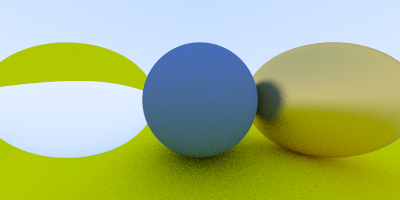
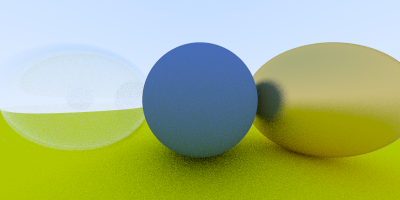
schlick

Changed region(s): [[0.0, 0.54, 0.39, 0.81], [0.0, 0.21, 0.39, 0.45], [0.48, 0.78, 0.51, 0.81]]

diff --git a/dielectric.h b/dielectric.h
@@ -7,11 +7,18 @@ struct Dielectric : public Material
 {
 	typedef r3::Vec3f V;
 
-	Dielectric( float index_of_refraction ) : refr_index( index_of_refraction ) {}
+	Dielectric( float index_of_refraction ) : refr_index( index_of_refraction ), gen( 0 ), dis( 0.0, 1.0 ) {}
 
 	static inline V Reflect( const V& incident, const V& normal )
 	{
 		return incident - 2 * incident.Dot( normal ) * normal;
+	}
+
+	static inline float Schlick( float cosine, float nr )
+	{
+		float r0 = ( 1 - nr ) / ( 1 + nr );
+		r0 = r0 * r0;
+		return r0 + ( 1 - r0 ) * pow( ( 1 - cosine ), 5.0f );
 	}
 
 	static inline bool Refract( const V& incident, const V& normal, float nr, V& refracted )
@@ -23,29 +30,24 @@ struct Dielectric : public Material
 			refracted = nr * ( incident - dt * normal ) - normal * sqrt( discriminant );
 			return true;
 		}
-		else
-		{
-			return false;
-		}
+		return false;
 	}
 
 	bool Scatter( const Ray& incident, const Hit& hit, V& attenuation, Ray& scattered ) const
 	{
 		bool outside = incident.dir.Dot( hit.n ) < 0;
 		V normal = outside ? hit.n : -hit.n;
-		float index_ratio = outside ? 1.0f / refr_index : refr_index;
+		float nr = outside ? 1.0f / refr_index : refr_index;
 		V refr;
-		if ( Refract( incident.dir, normal, index_ratio, refr ) )
+		if ( Refract( incident.dir, normal, nr, refr ) && RandomScalar() > Schlick( -incident.dir.Dot( normal ), nr ) )
 		{
 			scattered = Ray( hit.p, refr );
-			attenuation = V( 1, 1, 1 );
 		}
 		else
 		{
-			V refl = Reflect( incident.dir, normal );
-			scattered = Ray( hit.p, refl );
-			attenuation = V( 1, 0, 0 );
+			scattered = Ray( hit.p, Reflect( incident.dir, normal ) );
 		}
+		attenuation = V( 1, 1, 1 );
 		return true;
 	}
 
@@ -67,7 +69,14 @@ struct Dielectric : public Material
 		std::uniform_real_distribution<> dis;
 	};
 
+	float RandomScalar() const
+	{
+		return dis( gen );
+	}
+
 	mutable RandomPointInUnitSphere rpius;
 
 	float refr_index;
+	mutable std::mt19937 gen;
+	mutable std::uniform_real_distribution<> dis;
 };

diff --git a/rt.cpp b/rt.cpp
@@ -15,6 +15,8 @@
 
 using namespace r3;
 
+int trace_recursion = 0;
+
 namespace
 {
 
@@ -33,23 +35,38 @@ struct TraceResult
 	Vec3f Color;
 };
 
-TraceResult TraceRay( const Vec3f& attenuation, const Ray& ray, Hitable* hitable )
+struct ScopedRefCount
 {
+	ScopedRefCount( int& refcount ) : rc( refcount )
+	{
+		rc++;
+	}
+	~ScopedRefCount()
+	{
+		rc--;
+	}
+	int& rc;
+};
+
+TraceResult TraceRay( const Vec3f& attenuation, const Ray& ray, Hitable* hitable, int depth = 0 )
+{
+	ScopedRefCount src( trace_recursion );
+
 	// if "fully" attenuated, give up
-	if ( attenuation.Dot( attenuation ) < 0.001 )
+	if ( depth > 50 || attenuation.Dot( attenuation ) < 0.001 )
 	{
 		return TraceResult( Vec3f( 0, 0, 0 ) );
 	}
 
 	Hit hit;
-	if ( hitable->Hits( ray, hit ) )
+	if ( hitable->Hits( ray, 0.001, hit ) )
 	{
 		Ray scatter;
 		Vec3f atten;
 		if ( hit.mat->Scatter( ray, hit, atten, scatter ) )
 		{
 			// cast a scattering ray, accumulating attenuation
-			return TraceRay( atten * attenuation, scatter, hitable );
+			return TraceRay( atten * attenuation, scatter, hitable, depth + 1 );
 		}
 		else
 		{
@@ -91,12 +108,14 @@ int main( int argc, char** argv )
 	Sphere ground_sphere( Vec3f( 0, -100.5, -1 ), 100, &lamb_greenish );
 	Sphere gold_sphere( Vec3f( 1, 0, -1 ), 0.5, &metal_gold );
 	Sphere diel_yellow_sphere( Vec3f( -1, 0, -1 ), 0.5, &diel_yellow );
+	Sphere diel_yellow_sphere2( Vec3f( -1, 0, -1 ), -0.45, &diel_yellow );
 
 	HitableCollection collection;
 	collection.hitables.push_back( &blue_sphere );
 	collection.hitables.push_back( &ground_sphere );
 	collection.hitables.push_back( &gold_sphere );
 	collection.hitables.push_back( &diel_yellow_sphere );
+	collection.hitables.push_back( &diel_yellow_sphere2 );
 
 	Camera cam( 90, float( w ) / float( h ) );
 

diff --git a/sphere.h b/sphere.h
@@ -8,14 +8,14 @@ struct Sphere : public Hitable
 	typedef r3::Vec3f V;
 	Sphere( const V& center, const float radius, Material* material ) : c( center ), r( radius ), mat( material ) {}
 
-	bool Hits( const Ray& ray, Hit& hit )
+	bool Hits( const Ray& ray, float t_min, Hit& hit )
 	{
 		Quadraticf quadr( Dot( ray.dir, ray.dir ), 2 * Dot( ray.dir, ray.o - c ), Dot( ray.o - c, ray.o - c ) - r * r );
 		float discr = quadr.Discriminant();
 		if ( discr >= 0 )
 		{
-			float t = quadr.ClosestForwardSolution( discr );
-			if ( t < 0 )
+			float t = quadr.ClosestForwardSolution( discr, t_min );
+			if ( t < t_min )
 			{
 				return false;
 			}
@@ -23,7 +23,7 @@ struct Sphere : public Hitable
 			{
 				hit.t = t;
 				hit.p = ray.At( t );
-				hit.n = ( hit.p - c ).Normalized();
+				hit.n = ( hit.p - c ) / r;
 				hit.mat = mat;
 				return true;
 			}

diff --git a/ray.h b/ray.h
@@ -1,12 +1,22 @@
 #pragma once
 
 #include "linear.h"
+#include <stdio.h>
+
+extern int trace_recursion;
 
 struct Ray
 {
 	typedef r3::Vec3f V;
 	Ray() {}
-	Ray( const V& origin, const V& direction, float fwd = 0.001f ) : dir( direction.Normalized() ), o( origin + dir * fwd ) {}
+	Ray( const V& origin, const V& direction, float fwd = 0.0f ) : dir( direction.Normalized() ), o( origin + dir * fwd )
+	{
+		if ( trace_recursion > 100 )
+		{
+			printf( "%d ray: o = ( %.2f, %.2f, %.2f ), dir = ( %.2f, %.2f, %.2f )\n", trace_recursion, o.x, o.y, o.z, dir.x,
+					dir.y, dir.z );
+		}
+	}
 
 	V At( float t ) const
 	{

diff --git a/hitable.h b/hitable.h
@@ -18,21 +18,21 @@ struct Hit
 
 struct Hitable
 {
-	virtual bool Hits( const Ray& ray, Hit& hit ) = 0;
+	virtual bool Hits( const Ray& ray, float t_min, Hit& hit ) = 0;
 };
 
 struct HitableCollection : public Hitable
 {
 	std::vector<Hitable*> hitables;
 
-	bool Hits( const Ray& ray, Hit& hit )
+	bool Hits( const Ray& ray, float t_min, Hit& hit )
 	{
 		bool has_hit = false;
 		Hit closest_hit;
 		for ( auto hitable : hitables )
 		{
 			Hit h;
-			if ( hitable->Hits( ray, h ) )
+			if ( hitable->Hits( ray, t_min, h ) )
 			{
 				if ( has_hit == false )
 				{
